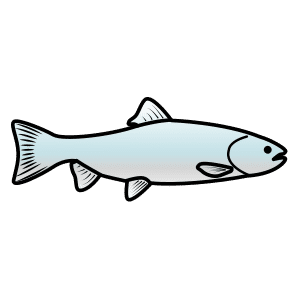
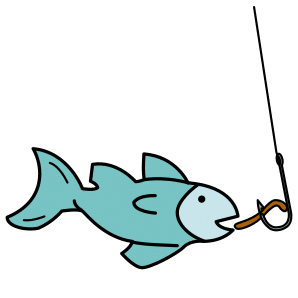
加入 VB p6–p7 53 字（10/28–11/11，每天 6 字）
- p6 運動休閒 25 字、p7 交通 11／大自然 4／顏色 13 字；p7 簡單對答不收
- 已在庫不重收（含 CS3 teacherOnly 的 guitar、hit）
- 圖片：plane 換飛機（原為木工刨刀）、orange/violet 換色塊、story 換故事書、game 換骰子、fish 換釣魚；hobby 退回 emoji
- listen、walk 標 silent（t、l）

diff --git a/data/words.js b/data/words.js
@@ -21,7 +21,7 @@
 // 老師上課現場加的字走 App 裡的「👩🏫 老師：加單字」，存在裝置的 localStorage，
 // 匯出後再灌進這個檔才會跟著上線給孩子。
 window.EN_WORDS = {
-  version: "cs3+m1-2026-10-01",
+  version: "cs3+m1-2026-10-26",
   units: [
     // 來源：安親班 CS3（9/7，Lily 老師）指定的拼字考單字。主題 Save the Earth。
     { id:"2026-09-12", title:"9 / 12", sub:"星期六", words:[
@@ -378,6 +378,100 @@ window.EN_WORDS = {
     // 25 個字切完剩這 1 個，不硬塞進 10/25 破壞一天 6 字
     { id:"2026-10-26", title:"10 / 26", sub:"星期一 · 寫作本 運動", words:[
       {w:"badminton",  pos:"n.", zh:"羽毛球", emoji:"🏸", chunks:"bad-min-ton"}
+    ]},
+
+    // ─────────────────────────────────────────────────────────────────────
+    // VB（黑白那本 Vocabulary Seedlings）p6 運動休閒＋p7 交通／大自然／顏色（太一 2026-10-26 拍照）。
+    // p7 右下「Simple expressions 簡單對答」太一指定不收。照書的順序，一天 6 個字，從 10/28 接。
+    // 已在庫不重收：badminton、baseball、basketball、soccer、tennis、hockey、kick、book、read、
+    // swim、watch、picture、bike、fly；guitar、hit 在 CS3（teacherOnly）裡。run 兩頁各出現一次，收一筆。
+    // listen to／play with 只收 listen／play；grey 照書拼（美式 gray 寫在中文裡）。
+    // ─────────────────────────────────────────────────────────────────────
+
+    { id:"2026-10-28", title:"10 / 28", sub:"星期三 · VB 運動休閒 1", words:[
+      {w:"game",     pos:"n.", zh:"遊戲",   emoji:"🎲", chunks:""},
+      {w:"ball",     pos:"n.", zh:"球",     emoji:"🏐", chunks:""},
+      {w:"beach",    pos:"n.", zh:"海灘",   emoji:"🏖", chunks:""},
+      {w:"bounce",   pos:"v.", zh:"彈跳",   emoji:"⛹", chunks:""},
+      {w:"camera",   pos:"n.", zh:"照相機", emoji:"📷", chunks:"cam-er-a"},
+      {w:"doll",     pos:"n.", zh:"玩偶",   emoji:"🪆", chunks:""}
+    ]},
+
+    { id:"2026-10-30", title:"10 / 30", sub:"星期五 · VB 運動休閒 2", words:[
+      {w:"enjoy",    pos:"v.", zh:"享受",       emoji:"😊", chunks:"en-joy"},
+      {w:"favorite", pos:"adj.", zh:"最喜愛的", emoji:"❤", chunks:"fa-vor-ite"},
+      {w:"fish",     pos:"v./n.", zh:"釣魚；魚肉", emoji:"🎣", chunks:""},
+      {w:"run",      pos:"v.", zh:"跑；跑步",   emoji:"🏃", chunks:""},
+      {w:"sing",     pos:"v.", zh:"唱歌",       emoji:"🎵", chunks:""},
+      {w:"song",     pos:"n.", zh:"歌曲",       emoji:"🎶", chunks:""}
+    ]},
+
+    { id:"2026-11-01", title:"11 / 1", sub:"星期日 · VB 運動休閒 3", words:[
+      {w:"sport",        pos:"n.", zh:"運動", emoji:"🏅", chunks:""},
+      {w:"story",        pos:"n.", zh:"故事", emoji:"🧚", chunks:"sto-ry"},
+      {w:"table tennis", pos:"n.", zh:"桌球", emoji:"🏓", chunks:""},
+      {w:"toy",          pos:"n.", zh:"玩具", emoji:"🧸", chunks:""},
+      // 書上中文寫「足球」（英式說法），美式 football 是美式足球
+      {w:"football",     pos:"n.", zh:"足球（英式說法）", emoji:"⚽", chunks:"foot-ball"},
+      {w:"hobby",        pos:"n.", zh:"嗜好", emoji:"🧩", chunks:"hob-by"}
+    ]},
+
+    { id:"2026-11-02", title:"11 / 2", sub:"星期一 · VB 運動休閒 4", words:[
+      {w:"kite",   pos:"n.", zh:"風箏",   emoji:"🪁", chunks:""},
+      // t 不發音，同 answer 的做法
+      {w:"listen", pos:"v.", zh:"聽（listen to）", emoji:"🎧", chunks:"lis-ten", silent:"t"},
+      {w:"paint",  pos:"v.", zh:"畫（上顏料）", emoji:"🎨", chunks:""},
+      {w:"photo",  pos:"n.", zh:"照片",   emoji:"📸", chunks:"pho-to"},
+      {w:"piano",  pos:"n.", zh:"鋼琴",   emoji:"🎹", chunks:"pi-an-o"},
+      {w:"play",   pos:"v.", zh:"玩（play with 跟…玩）", emoji:"🤹", chunks:""}
+    ]},
+
+    { id:"2026-11-04", title:"11 / 4", sub:"星期三 · VB 休閒 · 交通", words:[
+      {w:"radio",      pos:"n.", zh:"收音機",     emoji:"📻", chunks:"ra-di-o"},
+      {w:"boat",       pos:"n.", zh:"船",         emoji:"⛵", chunks:""},
+      {w:"bus",        pos:"n.", zh:"巴士；公車", emoji:"🚌", chunks:""},
+      {w:"car",        pos:"n.", zh:"車；汽車",   emoji:"🚗", chunks:""},
+      {w:"go",         pos:"v.", zh:"走；去",     emoji:"➡", chunks:""},
+      {w:"helicopter", pos:"n.", zh:"直升機",     emoji:"🚁", chunks:"hel-i-cop-ter"}
+    ]},
+
+    { id:"2026-11-06", title:"11 / 6", sub:"星期五 · VB 交通", words:[
+      // lorry 是英式說法（美式 truck）
+      {w:"lorry",     pos:"n.", zh:"卡車",         emoji:"🚚", chunks:"lor-ry"},
+      {w:"motorbike", pos:"n.", zh:"摩托車；機車", emoji:"🏍", chunks:"mo-tor-bike"},
+      {w:"plane",     pos:"n.", zh:"飛機",         emoji:"✈", chunks:""},
+      {w:"ride",      pos:"v.", zh:"騎；乘坐",     emoji:"🚴", chunks:""},
+      {w:"train",     pos:"n.", zh:"火車",         emoji:"🚆", chunks:""},
+      // l 不發音，同 know／write 的做法
+      {w:"walk",      pos:"v.", zh:"走路",         emoji:"🚶", chunks:"walk", silent:"l"}
+    ]},
+
+    { id:"2026-11-08", title:"11 / 8", sub:"星期日 · VB 大自然 · 顏色", words:[
+      {w:"sea",     pos:"n.", zh:"海洋", emoji:"🌊", chunks:""},
+      {w:"street",  pos:"n.", zh:"街道", emoji:"🛣", chunks:""},
+      {w:"sun",     pos:"n.", zh:"太陽", emoji:"☀", chunks:""},
+      {w:"rainbow", pos:"n.", zh:"彩虹", emoji:"🌈", chunks:"rain-bow"},
+      {w:"black",   pos:"adj.", zh:"黑色", emoji:"⚫", chunks:""},
+      {w:"blue",    pos:"adj.", zh:"藍色", emoji:"🔵", chunks:""}
+    ]},
+
+    { id:"2026-11-09", title:"11 / 9", sub:"星期一 · VB 顏色 1", words:[
+      {w:"brown",  pos:"adj.", zh:"棕色；咖啡色", emoji:"🟤", chunks:""},
+      {w:"green",  pos:"adj.", zh:"綠色", emoji:"🟢", chunks:""},
+      {w:"grey",   pos:"adj.", zh:"灰色（美式拼 gray）", emoji:"🩶", chunks:""},
+      {w:"orange", pos:"adj.", zh:"橘色", emoji:"🟠", chunks:"or-ange"},
+      {w:"pink",   pos:"adj.", zh:"粉紅色", emoji:"🩷", chunks:""},
+      {w:"purple", pos:"adj.", zh:"紫色", emoji:"🟣", chunks:"pur-ple"}
+    ]},
+
+    // 28 個字切完剩 5 個
+    { id:"2026-11-11", title:"11 / 11", sub:"星期三 · VB 顏色 2", words:[
+      {w:"red",    pos:"adj.", zh:"紅色", emoji:"🔴", chunks:""},
+      {w:"white",  pos:"adj.", zh:"白色", emoji:"⚪", chunks:""},
+      {w:"yellow", pos:"adj.", zh:"黃色", emoji:"🟡", chunks:"yel-low"},
+      // indigo／violet 是彩虹七色的靛、紫；violet 跟 purple 書上都寫紫色，中文加註才分得出來
+      {w:"indigo", pos:"adj.", zh:"靛色（彩虹的靛）", emoji:"🔷", chunks:"in-di-go"},
+      {w:"violet", pos:"adj.", zh:"紫色（彩虹的紫）", emoji:"🪻", chunks:"vi-o-let"}
     ]}
   ]
 };

diff --git a/sw.js b/sw.js
@@ -1,4 +1,4 @@
-const CACHE = "ewq-v23";   // 修掉 bike 等 23 個音檔殘留的 Stop。改 index.html、words.js 或音檔就要動這行
+const CACHE = "ewq-v24";   // 加 VB p6–p7 53 字（10/28–11/11）。改 index.html、words.js 或音檔就要動這行
 const ASSETS = ["./", "index.html", "data/words.js", "manifest.webmanifest", "icon-192.png", "icon-512.png", "apple-touch-icon.png"];
 self.addEventListener("install", e => {
   // cache:"reload" 強制繞過瀏覽器 HTTP 快取。不加的話 addAll 可能撈到快取裡的

diff --git a/index.html b/index.html
@@ -617,7 +617,7 @@ details.patbox:not([open]) > :not(summary){display:none !important;}
 <script>
 "use strict";
 const DATA = window.EN_WORDS || {units:[]};
-const APP_VER = "v18｜2026.10.09 修音檔尾巴殘留的 Stop";
+const APP_VER = "v19｜2026.10.26 加 VB 運動休閒、交通、顏色 53 字";
 const LS_KEY = "ewq_state_v1";
 let store = loadStore();
 function loadStore(){ try{return JSON.parse(localStorage.getItem(LS_KEY))||{}}catch(e){return {}} }

diff --git a/fetch_images.py b/fetch_images.py
@@ -22,7 +22,7 @@ DOWNLOAD = "https://static.arasaac.org/pictograms/{0}/{0}_300.png"
 # bestsearch 的第一名有時語意對不上（fish 挑到「盤子裡的魚料理」而不是活的魚），
 # 這裡指定正確的圖片 id。逐張看過後發現不對就往這裡加。
 OVERRIDE = {
-    "fish": 2520,   # 預設 2519 是魚料理，這單元講的是動物
+    "fish": 11339,  # VB p6 的 fish 是「釣魚」；11339 是上鉤的魚（舊單元用過 2520 活魚）
     "bag": 2475,    # 預設 23849 是紙購物袋，不是書包
     "rice": 39387,  # 預設 6911 是稻穗，不是煮好的飯
     "Earth": 30015, # 預設 3160 是「土壤」不是地球；30015 是藍海綠陸的那顆地球，
@@ -88,6 +88,14 @@ OVERRIDE = {
     "taste": 2944,       # 查無；2944 舌頭，對上書上那個味覺圖示
     "YouTuber": None,    # 查無
     "cartoonist": None,  # 查無；draw 的圖只是在畫畫，不像漫畫家
+    # ── VB p6 運動休閒＋p7 交通／大自然／顏色（2026-10-26）。整張對照表看過後指定：
+    "plane": 6924,       # 預設 5609 是木工刨刀（woodworking plane）
+    "orange": 2888,      # 預設 2483 是柳橙水果；這頁是顏色，2888 是橘色色塊（跟其他顏色同一套）
+    "story": 2364,       # 預設 6469 印著西班牙文 EL LOBO TIENE HAMBRE；2364 是故事書
+    "game": 2731,        # 預設 6170 是電視上的足球賽，跟 football 撞圖
+    "violet": 34483,     # 預設 11395 是紫羅蘭花；34483 是紫色色塊
+    "indigo": 4869,      # 查無；4869 是深藍色塊，跟 blue 的淺藍分得開
+    "hobby": None,       # 查無；hobbies 只搜到摺紙、氣球造型這類特定嗜好
 }
 # img/big.png 是手工合成的大小對比圖 —— ARASAAC 沒有小三看得懂的「大的」
 # （不是紅方框比大小就是 XL 吊牌）。腳本會跳過已存在的檔，不會蓋掉手工圖。
